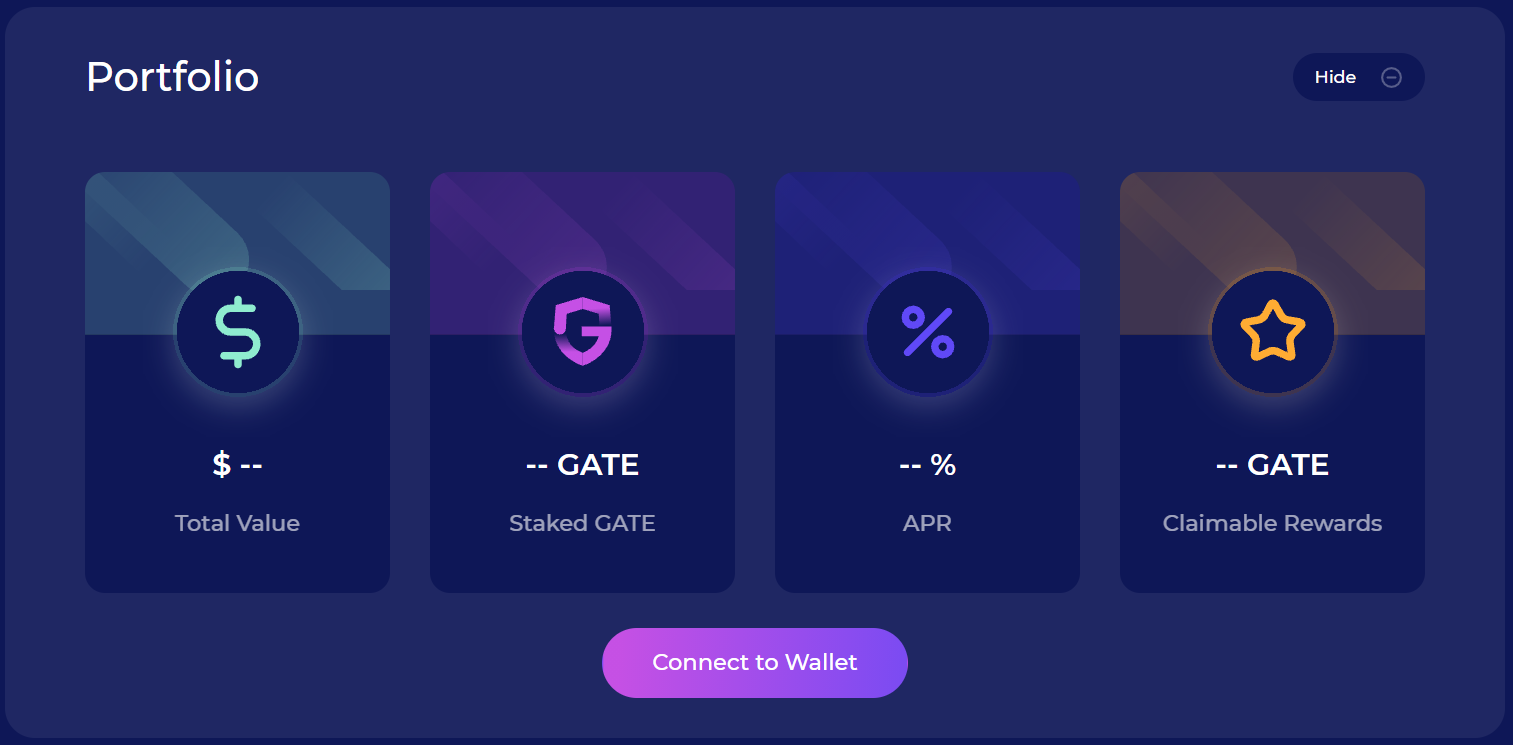
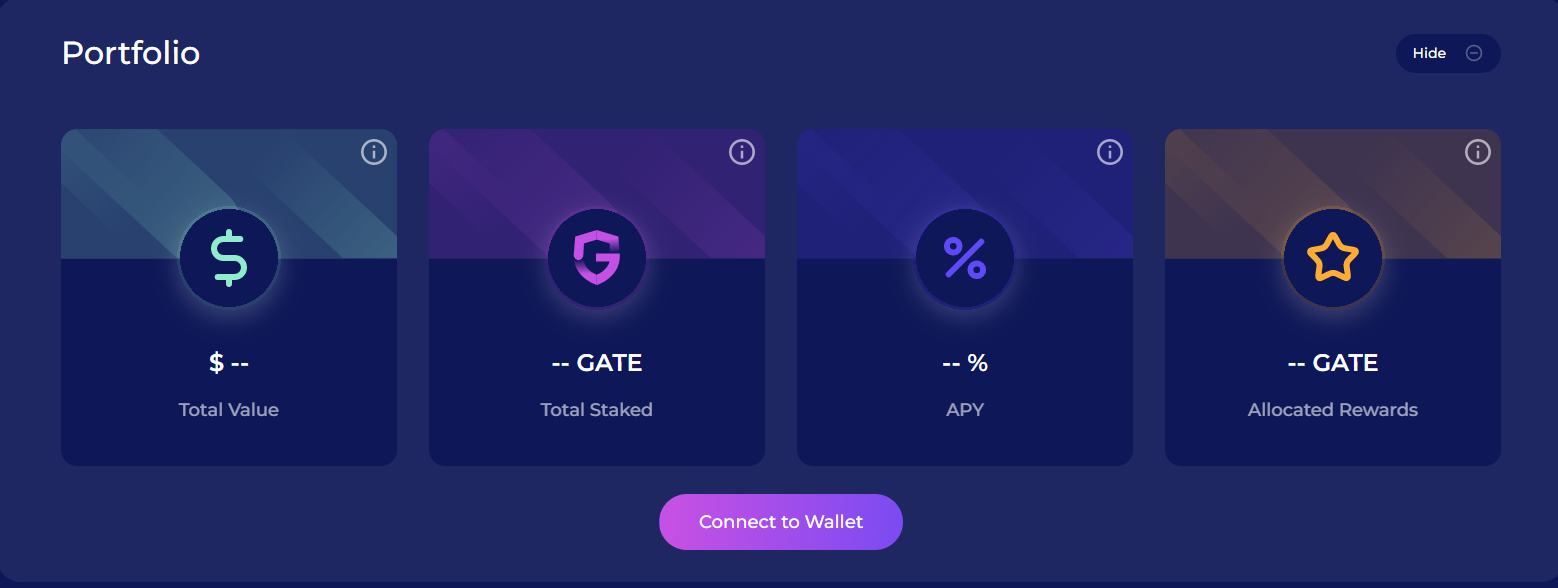
Update Staking platform doc images with updated UI & external link

diff --git a/sidebars.js b/sidebars.js
@@ -19,6 +19,8 @@ module.exports = {
         label: 'External resources',
         collapsible: false,
         items: [{
+            type: 'link', label: 'GATENet Website', href: 'https://gatenet.io'
+        },{
             type: 'link', label: 'GATENet Staking Platform', href: 'https://staking.gatenet.io'
         }, {
             type: 'link', label: 'GATENet GitHub', href: 'https://github.com/gateNet-IO/'

diff --git a/docs/staking-user-guide/viewingYourTransactionHistory.md b/docs/staking-user-guide/viewingYourTransactionHistory.md
@@ -1,5 +1,5 @@
 ---
-sidebar_position: 7
+sidebar_position: 6
 ---
 
 # Viewing Your Transaction History
